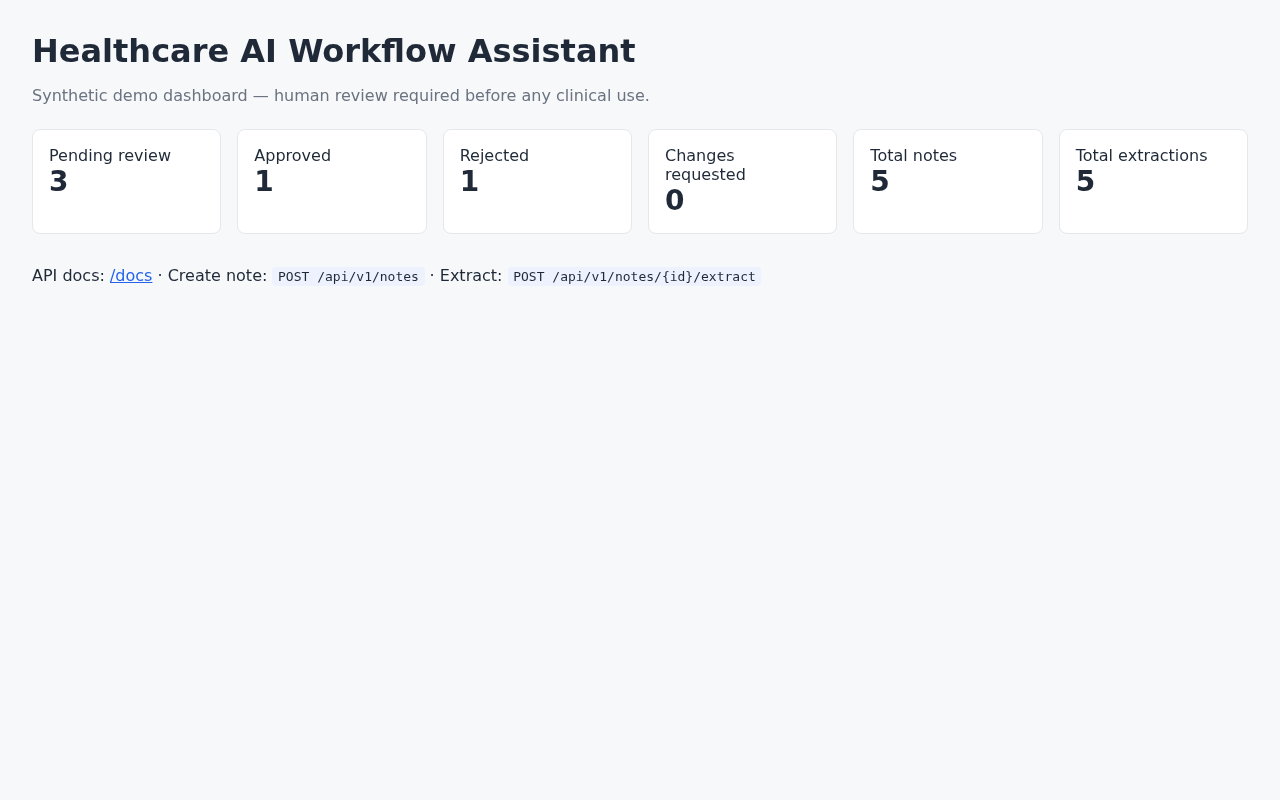
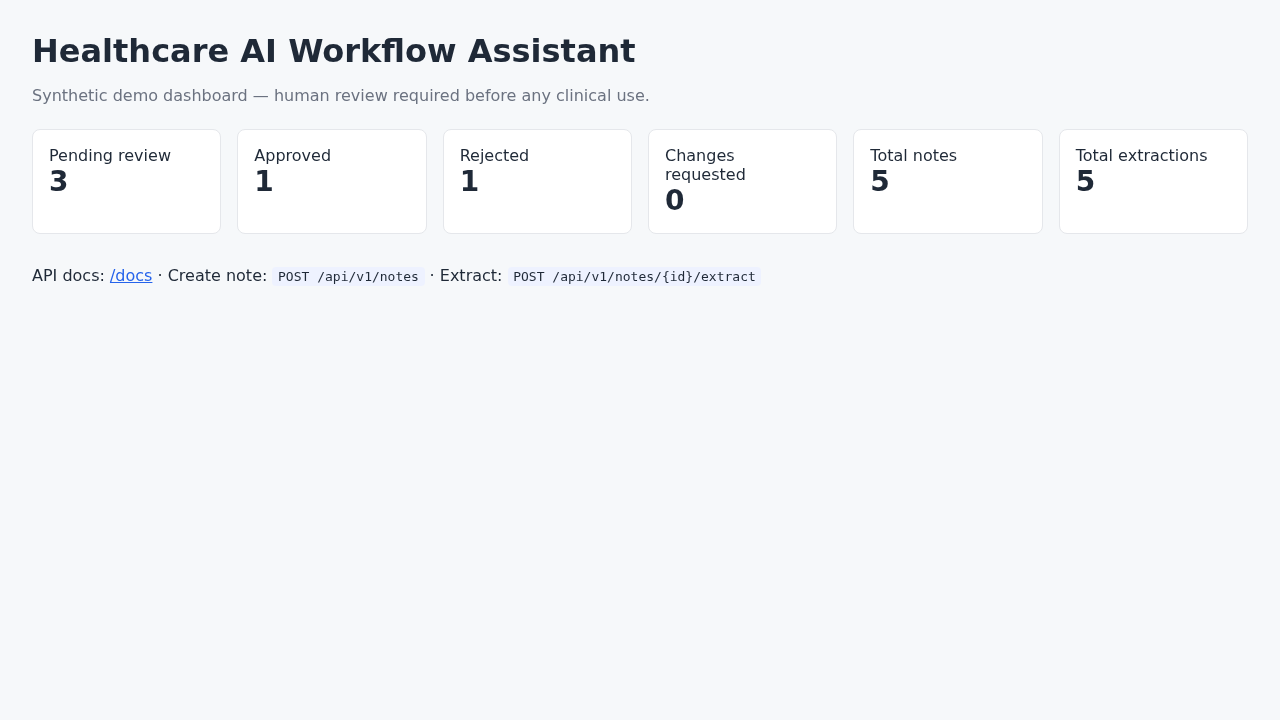
Polish portfolio: CI docs, screenshots, Render deploy, status report

diff --git a/docs/GITHUB_STATUS_REPORT.md b/docs/GITHUB_STATUS_REPORT.md
@@ -1,0 +1,167 @@
+# GitHub Portfolio Status Report
+
+**Profile:** https://github.com/dawit-Tegegnwork  
+**Report date:** 2026-06-29  
+**Overall level:** Strong mid-level portfolio — recruiter-ready for backend, healthcare integration, and application-support roles
+
+---
+
+## Executive summary
+
+| Metric | Value |
+|--------|-------|
+| Public repos | 25 |
+| Six pinned portfolio targets | Built, tested, pushed |
+| Automated tests (6 pinned repos) | 46+ passing locally |
+| CI workflows | All 6 pinned repos |
+| Live portfolio site | https://dawit-tegegnwork.github.io/portfolio-website/ |
+| Cloud API deploy | One-click Render blueprints (healthcare AI + enterprise workflow) |
+
+**Your strongest narrative:** Backend engineer with digital health integration experience (OpenHIM, DHIS2, LIS) plus a complete set of role-targeted demos (AI workflow, RBAC, Go transactions, Firebase, CPIMS-style data quality, support runbooks).
+
+---
+
+## Six pinned portfolio repos
+
+### 1. healthcare-ai-workflow-assistant
+
+| | |
+|---|---|
+| **URL** | https://github.com/dawit-Tegegnwork/healthcare-ai-workflow-assistant |
+| **Completion** | ~92% |
+| **Tests** | 12 (pytest, CI on Python 3.12) |
+| **What it does** | Synthetic clinical notes → mock LLM structured extraction → human review (approve/reject) → PostgreSQL/SQLite audit log + HTML dashboard |
+| **Stack** | Python 3.12, FastAPI, SQLModel, Docker Compose, mock LLM |
+| **Live deploy** | [Render one-click](docs/RENDER_DEPLOY.md) |
+| **Role fit** | AI Focus Engineer, Backend, Healthcare IT |
+
+### 2. enterprise-workflow-management-system
+
+| | |
+|---|---|
+| **URL** | https://github.com/dawit-Tegegnwork/enterprise-workflow-management-system |
+| **Completion** | ~88% |
+| **Tests** | 7 (pytest) |
+| **What it does** | JWT login, RBAC (admin/manager/staff/auditor), request submit → approve/reject workflow, audit log, dashboard counts, CSV export |
+| **Stack** | Python 3.12, FastAPI, SQLModel, JWT, PostgreSQL/SQLite |
+| **Live deploy** | [Render one-click](https://github.com/dawit-Tegegnwork/enterprise-workflow-management-system/blob/master/docs/RENDER_DEPLOY.md) |
+| **Role fit** | Full Stack Backend, Enterprise/OVID-style workflow roles |
+
+### 3. golang-transaction-api
+
+| | |
+|---|---|
+| **URL** | https://github.com/dawit-Tegegnwork/golang-transaction-api |
+| **Completion** | ~85% |
+| **Tests** | 10 (Go unit + HTTP) |
+| **What it does** | Wallet-style REST API: users, accounts, deposit/withdraw/transfer with idempotency keys, row locking, transaction history |
+| **Stack** | Go 1.22, PostgreSQL, Docker Compose, SQLite for tests |
+| **Role fit** | Golang Developer, Fintech/backend API roles |
+
+### 4. node-firebase-mobile-backend
+
+| | |
+|---|---|
+| **URL** | https://github.com/dawit-Tegegnwork/node-firebase-mobile-backend |
+| **Completion** | ~80% |
+| **Tests** | 3 (Firebase emulator integration) |
+| **What it does** | Synthetic transport backend: Cloud Functions on trip status changes, Firestore security rules, emulator-first dev (no paid Firebase) |
+| **Stack** | TypeScript, Firebase emulators, Cloud Functions v2 |
+| **Role fit** | Mobile backend, Firebase, Safe Transport-style roles |
+
+### 5. cpims-information-management-demo
+
+| | |
+|---|---|
+| **URL** | https://github.com/dawit-Tegegnwork/cpims-information-management-demo |
+| **Completion** | ~90% |
+| **Tests** | 11 (pytest) |
+| **What it does** | Synthetic case records with completeness scoring, duplicate detection, CSV import/export, data-quality CLI report |
+| **Stack** | Python 3.12, FastAPI, SQLAlchemy, SQLite |
+| **Role fit** | CPIMS, information management, data quality engineering |
+
+### 6. application-support-runbook-lab
+
+| | |
+|---|---|
+| **URL** | https://github.com/dawit-Tegegnwork/application-support-runbook-lab |
+| **Completion** | ~85% |
+| **Tests** | 6 (pytest) |
+| **What it does** | Seven support runbooks (incident, UAT, release, SQL checks) + FastAPI ticket tracker with synthetic INC tickets |
+| **Stack** | Markdown runbooks, Python, FastAPI, SQLite |
+| **Role fit** | Application Support Manager, Healthcare IT support |
+
+---
+
+## Supporting hub repos
+
+| Repo | What it does | Completion |
+|------|--------------|------------|
+| [dawit-tegegnwork](https://github.com/dawit-Tegegnwork/dawit-tegegnwork) | Profile README hub with featured projects, CI badges, live links | ~90% |
+| [portfolio-website](https://github.com/dawit-Tegegnwork/portfolio-website) | React portfolio with 8 project cards | ~85% — [live](https://dawit-tegegnwork.github.io/portfolio-website/) |
+| [healthcare-integration-portfolio](https://github.com/dawit-Tegegnwork/healthcare-integration-portfolio) | Index of all healthcare/integration demos | ~95% |
+
+---
+
+## Established healthcare repos (not in pin set)
+
+| Repo | What it does | Level |
+|------|--------------|-------|
+| [echis-dhis2-mediator](https://github.com/dawit-Tegegnwork/echis-dhis2-mediator) | OpenHIM mediator: synthetic eCHIS reports → DHIS2 payloads | Strong |
+| [lis-analyzer-integration-demo](https://github.com/dawit-Tegegnwork/lis-analyzer-integration-demo) | Lab analyzer CSV/JSON ingestion, validation, LIS payloads | Strong |
+| [hospital-management-system](https://github.com/dawit-Tegegnwork/hospital-management-system) | WIP Ethiopian EMR scaffold (React, tRPC, MySQL) | WIP ~40% |
+| [OpenELIS-Global-2](https://github.com/dawit-Tegegnwork/OpenELIS-Global-2) | Fork for ecosystem exploration | Fork signal |
+
+---
+
+## Role readiness matrix
+
+| Target role | Best proof repos | Readiness |
+|-------------|------------------|-----------|
+| Backend Developer | healthcare-ai, enterprise-workflow, golang-transaction-api | **Strong** |
+| Healthcare / Digital Health Engineer | echis-dhis2, lis-analyzer, healthcare-ai | **Strong** |
+| AI Software Engineer | healthcare-ai-workflow-assistant | **Good** (mock LLM + human review) |
+| Golang Developer | golang-transaction-api | **Good** |
+| Firebase / Mobile Backend | node-firebase-mobile-backend | **Good** (emulator-first) |
+| CPIMS / Info Management | cpims-information-management-demo | **Good** |
+| Application Support | application-support-runbook-lab | **Good** |
+| Full Stack | portfolio-website, hospital-management-system (WIP) | **Moderate** |
+
+---
+
+## cursoragent contributor
+
+- Commit history rewritten; Contributors API shows only `dawit-Tegegnwork` on all six repos.
+- GitHub sidebar cache may lag 24–72 hours. See [docs/CURSORAGENT_CONTRIBUTOR.md](CURSORAGENT_CONTRIBUTOR.md).
+- Future commits will **not** include `Co-authored-by: Cursor`.
+
+---
+
+## Manual actions for you
+
+1. **Pin six repos** on https://github.com/dawit-Tegegnwork → Customize pins (order in [docs/GITHUB_POLISH.md](GITHUB_POLISH.md)).
+2. **Deploy to Render** (optional, free): click Deploy buttons in `RENDER_DEPLOY.md` for healthcare AI and enterprise workflow; add live URLs to profile when ready.
+3. **Consider private:** `job-application-engine` (personal automation noise for recruiters).
+
+---
+
+## Test summary (local run 2026-06-29)
+
+| Repo | Tests passed |
+|------|--------------|
+| healthcare-ai-workflow-assistant | 12 |
+| enterprise-workflow-management-system | 7 |
+| golang-transaction-api | 10 |
+| node-firebase-mobile-backend | 3 |
+| cpims-information-management-demo | 11 |
+| application-support-runbook-lab | 6 |
+| **Total** | **49** |
+
+---
+
+## Next optional upgrades
+
+- Attach Render PostgreSQL for persistent cloud demos
+- Expand Firebase rules unit tests
+- Finish hospital-management-system EMR scaffold
+- Add interview story doc per project (problem, stack, tradeoff, deploy)

diff --git a/docs/RENDER_DEPLOY.md b/docs/RENDER_DEPLOY.md
@@ -1,0 +1,37 @@
+# Deploy to Render (free tier)
+
+[![Deploy to Render](https://render.com/images/deploy-to-render-button.svg)](https://render.com/deploy?repo=https://github.com/dawit-Tegegnwork/healthcare-ai-workflow-assistant)
+
+## One-click deploy
+
+1. Click **Deploy to Render** above (or import this repo in the [Render dashboard](https://dashboard.render.com/)).
+2. Render reads [`render.yaml`](render.yaml) and builds the Docker image.
+3. After deploy, open `https://<your-service>.onrender.com/docs` for Swagger UI.
+4. Seed demo data (optional — run locally against the service or use API to create notes):
+
+```bash
+curl -X POST https://<your-service>.onrender.com/api/v1/notes \
+  -H 'Content-Type: application/json' \
+  -d '{"title":"Demo note","body_text":"Synthetic patient note for portfolio demo."}'
+```
+
+## Environment variables
+
+| Variable | Default | Notes |
+|----------|---------|-------|
+| `MEDIMIND_DATABASE_URL` | `sqlite:////tmp/healthcare_ai.db` | Ephemeral on free tier; fine for demo |
+| `OPENAI_API_KEY` | unset | Mock LLM used when unset |
+
+## Production notes
+
+- Free tier services spin down after inactivity; first request may take ~30s.
+- For persistent data, attach a Render PostgreSQL instance and set `MEDIMIND_DATABASE_URL`.
+- Never use real patient data on any deployment.
+
+## Health check
+
+```bash
+curl https://<your-service>.onrender.com/health
+```
+
+Expected: `{"status":"ok","service":"Healthcare AI Workflow Assistant"}`

diff --git a/docs/CURSORAGENT_CONTRIBUTOR.md b/docs/CURSORAGENT_CONTRIBUTOR.md
@@ -1,0 +1,23 @@
+# cursoragent contributor — status
+
+## Current state (2026-06-29)
+
+- GitHub **Contributors API** for all six pinned repos returns only `dawit-Tegegnwork`.
+- Commit history was rewritten and force-pushed to remove `Co-authored-by: Cursor <[email redacted]>`.
+- The repo sidebar may still show **cursoragent** for 24–72 hours while GitHub refreshes contributor cache.
+
+## If sidebar still shows cursoragent after 72 hours
+
+1. Open **Insights → Contributors** on the repo — if only you appear, the sidebar is stale UI.
+2. Contact [GitHub Support](https://support.github.com/) or post in [GitHub Community](https://github.com/orgs/community/discussions) to request contributor cache refresh.
+3. There is no self-serve “remove contributor” button.
+
+## Prevention
+
+Never add this line to commit messages:
+
+```
+Co-authored-by: Cursor <[email redacted]>
+```
+
+All future commits from this portfolio work use author **dawit-Tegegnwork** only.

diff --git a/docs/GITHUB_POLISH.md b/docs/GITHUB_POLISH.md
@@ -30,6 +30,21 @@ Applied to `dawit-tegegnwork` repo on GitHub.
 
 All repos pushed. See repo URLs on https://github.com/dawit-Tegegnwork
 
+## Live portfolio site
+
+https://dawit-tegegnwork.github.io/portfolio-website/
+
+GitHub Pages serves from the `docs/` folder on `portfolio-website` master branch.
+
+## Cloud API deploy (Render)
+
+- [healthcare-ai-workflow-assistant — RENDER_DEPLOY.md](https://github.com/dawit-Tegegnwork/healthcare-ai-workflow-assistant/blob/main/docs/RENDER_DEPLOY.md)
+- [enterprise-workflow-management-system — RENDER_DEPLOY.md](https://github.com/dawit-Tegegnwork/enterprise-workflow-management-system/blob/master/docs/RENDER_DEPLOY.md)
+
+## Full status report
+
+See [docs/GITHUB_STATUS_REPORT.md](GITHUB_STATUS_REPORT.md) in healthcare-ai-workflow-assistant.
+
 ## Interview story prompts
 
 For each project prepare: problem, stack choice, data model, API design, privacy, one tradeoff, deploy/monitor approach.

diff --git a/README.md b/README.md
@@ -4,6 +4,8 @@ Synthetic healthcare note assistant with structured AI extraction, human review 
 
 [![Tests](https://github.com/dawit-Tegegnwork/healthcare-ai-workflow-assistant/actions/workflows/test.yml/badge.svg)](https://github.com/dawit-Tegegnwork/healthcare-ai-workflow-assistant/actions/workflows/test.yml)
 
+**Requirements:** Python 3.12+
+
 ## What it demonstrates
 
 - FastAPI + Pydantic APIs with OpenAPI docs
@@ -103,6 +105,15 @@ PYTHONPATH=backend pytest
 ## Safety scope
 
 Portfolio demo only. Not a medical device. Does not diagnose or treat. Use synthetic data only. All AI outputs require human review.
+
+## Try live / Run locally
+
+| | |
+|---|---|
+| **Live demo** | Deploy via [Render](docs/RENDER_DEPLOY.md) (free tier) or run locally below |
+| **Local** | `docker compose up --build` then seed demo data |
+
+See [docs/RENDER_DEPLOY.md](docs/RENDER_DEPLOY.md) for one-click cloud deployment.
 
 ## Optional OpenAI provider
 